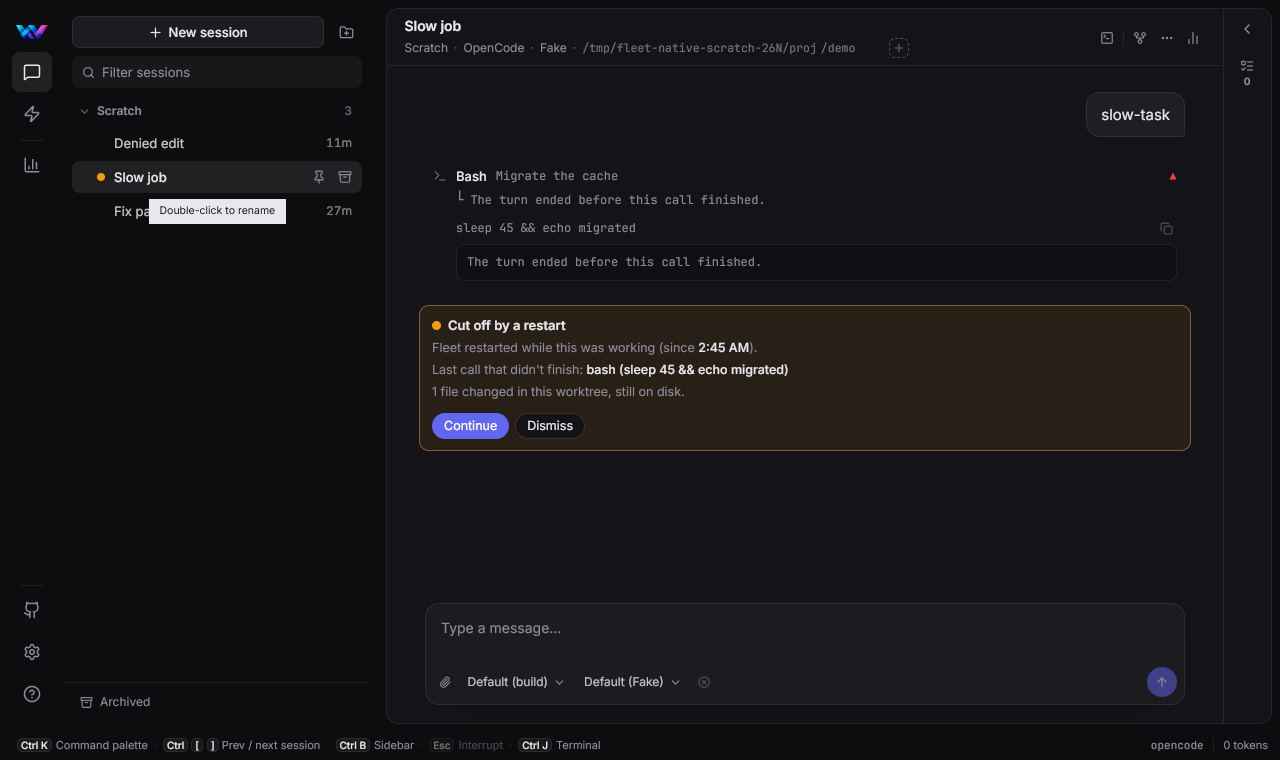
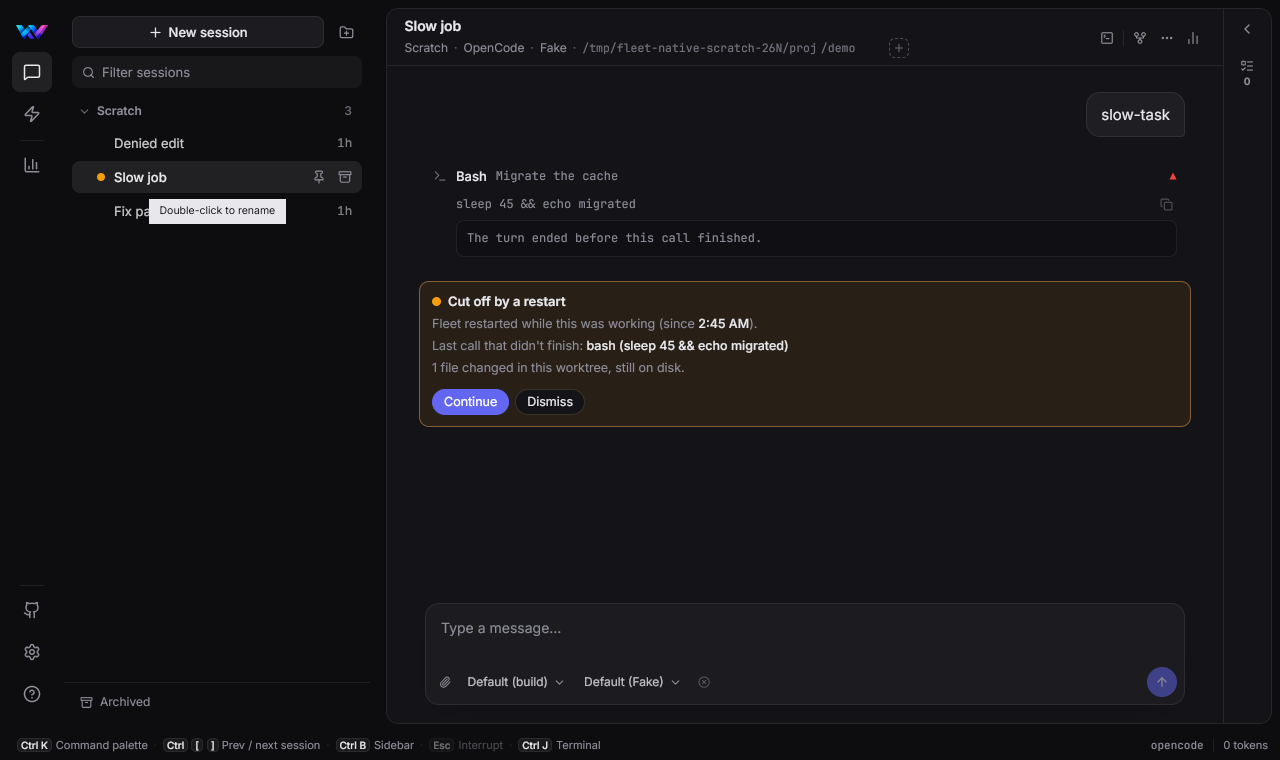
Component 26, piece N: keep the old failed-call preview rule, retake pictures

diff --git a/src/tests.rs b/src/tests.rs
@@ -294,9 +294,6 @@ fn clicking_the_reads_row_opens_and_closes_the_folded_reads() {
     assert!(rt.find("tool-r1").is_none(), "reads are folded until asked");
     click(&mut rt, "reads-reads-r1");
     assert!(rt.find("tool-r1").is_some());
-    // The rows measure themselves one frame after they appear; the second press is aimed at where the header settled.
-    rt.frame(FRAME);
-    rt.frame(FRAME);
     click(&mut rt, "reads-reads-r1");
     assert!(rt.find("tool-r1").is_none());
 }
@@ -322,10 +319,10 @@ fn a_closed_card_draws_no_body_and_a_click_on_its_row_opens_and_closes_it() {
 }
 
 #[test]
-fn a_call_that_failed_starts_open_with_what_it_printed_and_keeps_its_preview_line_closed_or_open() {
+fn a_call_that_failed_starts_open_with_what_it_printed_and_closes_to_a_preview_line() {
     let mut rt = output_app(&["t2"]);
     assert!(rt.find("tool-t2-body").is_some(), "errors start open");
-    assert!(rt.find("tool-t2-preview").is_some(), "Fleet's `v-if=\"preview && status === 'Error'\"` shows it open too");
+    assert!(rt.find("tool-t2-preview").is_none(), "an open card has no preview line");
     click(&mut rt, "tool-t2");
     assert!(rt.find("tool-t2-body").is_none());
     assert!(rt.find("tool-t2-preview").is_some(), "a closed failed card keeps a line");

diff --git a/src/view/toolrow.rs b/src/view/toolrow.rs
@@ -92,7 +92,7 @@ pub fn tool_entry(t: &Theme, s: &State, part: &Part) -> El {
     let mut card = rune::col().w_full().child(header);
     // A failed call keeps what it printed, one line, under its row, open or closed (`v-if="preview && status === 'Error'"`);
     // a mod drawing the line says what the call did instead.
-    if let (ToolStatus::Error, Some(line), None) = (*status, body.preview.as_deref(), &line_tree) {
+    if let (false, ToolStatus::Error, Some(line), None) = (open, *status, body.preview.as_deref(), &line_tree) {
         card = card.child(toolcard::preview(t, id, line));
     }
     if open {

diff --git a/docs/parity/26-parity-audit.md b/docs/parity/26-parity-audit.md
@@ -188,7 +188,7 @@ Rune's limits are in Part 8.
 | 2.23 | Decoded pictures evicted when off screen | 03 piece N | **Done (N)**: at most 64 decoded pictures are kept; the ones asked for longest ago are let go and fetched again when a row draws them (`Images::evict`). Rune draws only the rows on screen, so "off screen" is approximated by "asked for longest ago"; tested |
 | 2.24 | Find: a clear button; thinking searched and marked; read-run rows marked; aim inside an output box | 03 6.12, piece Q | **Open**: checked against weave-fleet `main` (`lib/conversation-find.ts`, `ConversationFindBar.vue`): Fleet's bar has no clear button of its own (only the browser's on `type="search"`) and says "Thinking text is never searched", so the first two items are not Fleet's behaviour. Read-run rows marked and the aim inside an output box are not done |
 | 2.25 | The live cursor (`last_event_id`) read correctly (0 and negative numbers) | 02 4.3 | **Done (N)**: `lastEventId ?? lastSequenceNumber` reads 0 and negative numbers, and a null `lastEventId` falls back; tested. Nothing reads the cursor yet, as in Fleet |
-| 2.26 | A denied edit's rejected text wraps in its box | 04 G | **Open**: live (`write-file` denied) the rejected text fits one line in both apps, so the wrapping isn't reproducible short. What differed in the picture is fixed: Fleet shows a failed call's one-line preview under the row open or closed (`v-if="preview && status === 'Error'"`); native showed it only closed. Long text still to check |
+| 2.26 | A denied edit's rejected text wraps in its box | 04 G | **Open**: live (`write-file` denied) the rejected text fits one line in both apps, so the wrapping isn't reproducible short. What does differ in the pictures (`shots/parity/26n-conversation-rest/*-denied-*`): Fleet draws a failed call's one-line preview under the row open or closed (`v-if="preview && status === 'Error'"` in `ToolCard.vue`), native only when closed. Changing that broke `tests::clicking_the_reads_row_opens_and_closes_the_folded_reads` in a way not understood, so it is left for component 3's sweep |
 | 2.27 | With two cards waiting, number keys act on the focused one | 04 3.14 | **Done (N)**: every key of a card after the first carries its ask (`permission::ck`, `question::suffix`), so a number key, an arrow or Enter acts on the card that holds the focus; tested with two permission cards (`tests_asks::with_two_cards_waiting_number_keys_answer_the_focused_one`). Two question cards at once: same code, not tested (the scripted model raises one) |
 | 2.28 | Fleet's test names: focus-prompt (1), page cards (5), Improve (3), row labels (2), `page-choice.test.ts` (8), peer-machine (2) | 03 tests, 04 tests | **Done as far as the cases are buildable (N)**: peer-machine (2) in `tests_peer.rs`, `session-messages.test.ts` (10) in `conv/tests/peer.rs`, Improve (3) renamed in `tests_skills.rs` and mapped in `03-conversation-parts-tests.md`. **Open**: `focus-prompt` (needs the session-command bus, component 5), page cards (5) and `page-choice.test.ts` (8) and row labels (2) keep their existing tests under other names (`fleet/tests/web_page.rs`, `tests_pages.rs`, `conv/tests/registry.rs`); not renamed |
 #### 2c. Composer, new session and first message (components 5, 7)
